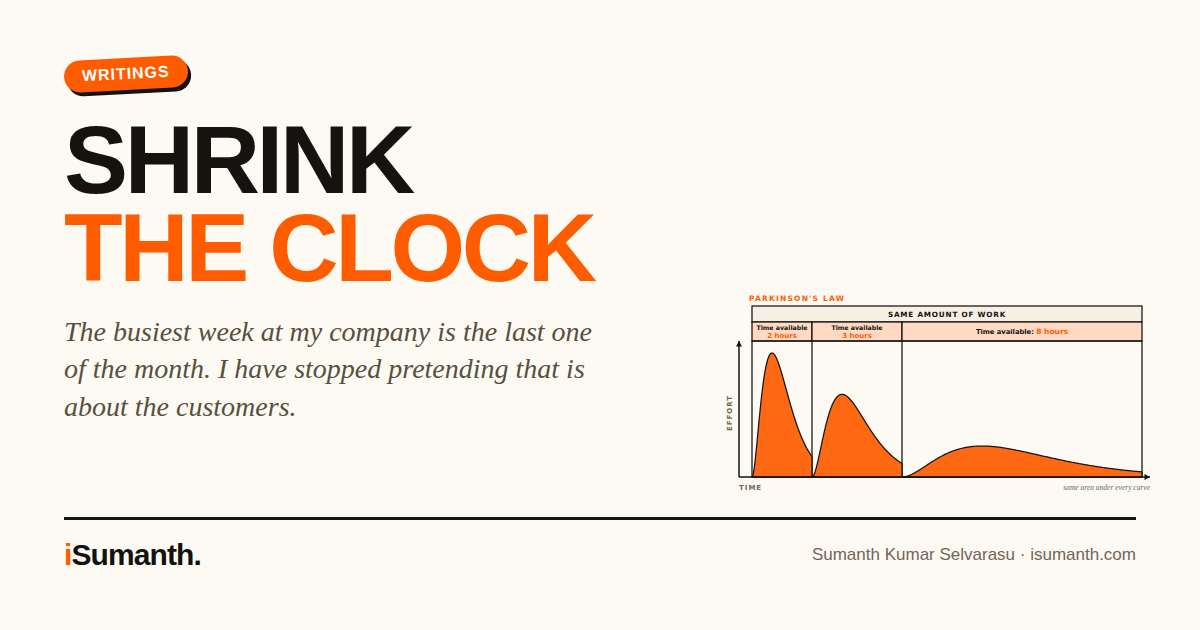
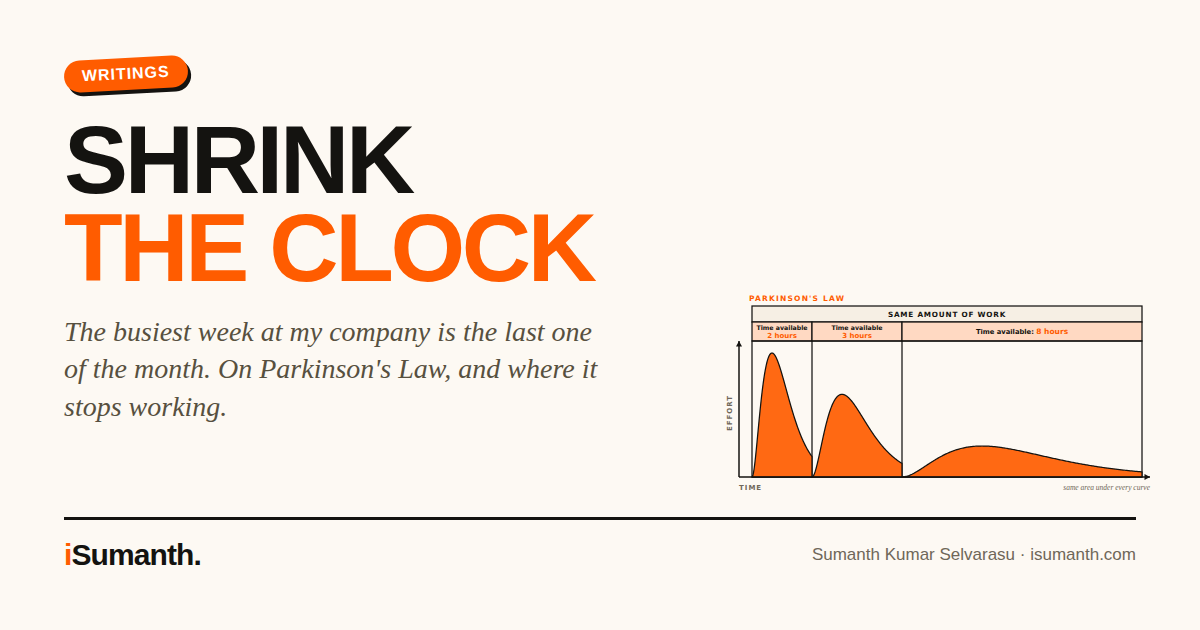
Revise Shrink the Clock after feedback

Changed region(s): [[0.185, 0.573, 0.4933, 0.6032], [0.0308, 0.6333, 0.2467, 0.6635]]

diff --git a/writings/shrink-the-clock/index.html b/writings/shrink-the-clock/index.html
@@ -173,10 +173,10 @@
   <div class="wrap">
     <div class="kicker">
       <span class="tag">Writings</span>
-      <span class="meta">August 2026 &middot; 2 min read</span>
+      <span class="meta">August 2026 &middot; 3 min read</span>
     </div>
     <h1>Shrink<br><span class="last">the Clock<svg viewBox="0 0 300 20" preserveAspectRatio="none"><path d="M4 14 Q 40 4 75 12 T 150 11 T 225 13 T 296 9"/></svg></span></h1>
-    <p class="standfirst">Work expands to fill the time available. Most people repeat that as a joke. I use it as a deadline, because time is the only thing I can cut without paying for it.</p>
+    <p class="standfirst">Work expands to fill the time available. Setting a deadline costs nothing, which makes it the first tool I reach for. Knowing which work it fits is the harder half.</p>
 
     <hr class="rule">
 
@@ -185,7 +185,7 @@
 
       <p>For three weeks the pipeline barely moves. Someone is still evaluating. Someone will confirm after his plant shutdown. Someone has stopped replying altogether. Then the last few days arrive and orders get closed at a pace nobody could manage on the 12th. The price did not change. The product did not change. The month ended.</p>
 
-      <p>Parkinson wrote the line about this in 1955. Work expands so as to fill the time available for its completion. He was making fun of government offices that kept hiring clerks while the work stayed the same. I use it as a tool, because time is the only thing I can cut without paying for it.</p>
+      <p>Parkinson wrote the line about this in 1955. Work expands so as to fill the time available for its completion. He was making fun of government offices that kept hiring clerks while the work stayed the same. Setting a date is the one lever in my business that costs nothing to pull, which is why I reach for it first, and also why it is easy to misuse.</p>
 
       <figure class="chart reveal">
         <svg xmlns="http://www.w3.org/2000/svg" viewBox="0 0 900 430" role="img" aria-labelledby="pl-title pl-desc" style="width:100%;height:auto;display:block">
@@ -220,20 +220,26 @@
         <figcaption>Same task, three deadlines. The area under each curve is identical. All that changes is how thin you are willing to spread it.</figcaption>
       </figure>
 
-      <p>Mostly it comes down to one habit. I give the date before I ask for the plan.</p>
+      <p>What I actually do is small. I give the date before I ask for the plan.</p>
 
       <p>If I ask how long something will take, the answer comes back padded, and fairly so. A few days because the customer may not reply. A few more because finance takes a week to release the payment. A little extra on top because nobody wants to be the one who missed their own estimate. Ask the same person to finish it by Friday and they stop adding up what could go wrong. They start deciding what to drop, whom to call first, which approval to chase and which one to work around. The date ends up doing the prioritising the plan was supposed to do.</p>
 
-      <p>The smaller versions of the same idea are everywhere once you look. Our reviews used to run an hour because the calendar suggests an hour, and thirty minutes has cost us nothing so far. A one-page note forces someone to work out what matters before they send it, where ten pages let them hand the deciding to me. When someone asks for two weeks, I ask what the one-week version would look like, not to push them down but to find out which half is the real work.</p>
-
-      <p>Where it stops working is the part I got wrong for years. A farmer deciding whether to sell his crop residue is not on my month-end. He is on his harvest, his cash need, and his memory of the last buyer who promised to pay him and did not. Urgency there does not read as urgency. It reads as pressure, and pressure gets answered fast, usually with a no.</p>
-
       <div class="pull">
-        <p>Nobody says what <i>finished</i> looks like.</p>
-        <p>So the work keeps going until the <i>month</i> does.</p>
+        <p>Give the <i>date</i> first.</p>
+        <p>Ask for the <i>plan</i> second.</p>
       </div>
 
-      <p>Most work stretches for that reason and no other. The date is the cheapest thing I own, so I try to spend it before I spend anything else.</p>
+      <p>The smaller versions of the same idea are everywhere once you look. Our reviews used to run an hour because the calendar suggests an hour, and thirty minutes has cost us nothing so far. A one-page note forces someone to work out what matters before they send it, where ten pages let them hand the deciding to me. When someone asks for two weeks, I ask what the one-week version would look like, not to push them down but to find out which half is the real work.</p>
+
+      <p>Then there is the part I got wrong for years. Cutting time is free only when the finish line is mine to move. So before setting any date I ask one question: who has to decide for this to be finished? If the answer is me or someone on my team, a tight date helps. If the answer is somebody outside the company, the date belongs on my own next step and not on their answer.</p>
+
+      <p>A farmer deciding whether to sell his crop residue is not on my month-end. He is on his harvest, his cash need, and his memory of the last buyer who promised to pay him and did not. Urgency there does not read as urgency. It reads as pressure, and pressure gets answered fast, usually with a no. So the date I set is for the call I owe him on Tuesday, not for the day he says yes.</p>
+
+      <p>The same question catches the other failure. If I cannot describe what finished looks like, I am still figuring the work out, and a tight date on that only buys me a confident wrong answer early. There the date goes on the decision instead of the outcome. By Friday we pick the price for the new state, not by Friday we win the new state.</p>
+
+      <p>Has any of this fixed the month-end rush? Not really. The last week is still the heaviest one we have. What changed is that it is no longer the only week where anything closes, because most of the work now carries a date of its own long before the month runs out.</p>
+
+      <p>The month ends on its own. Every other deadline I have to set myself, and setting one costs nothing until I put it on something I do not control.</p>
     </div>
 
     <div class="sign">
